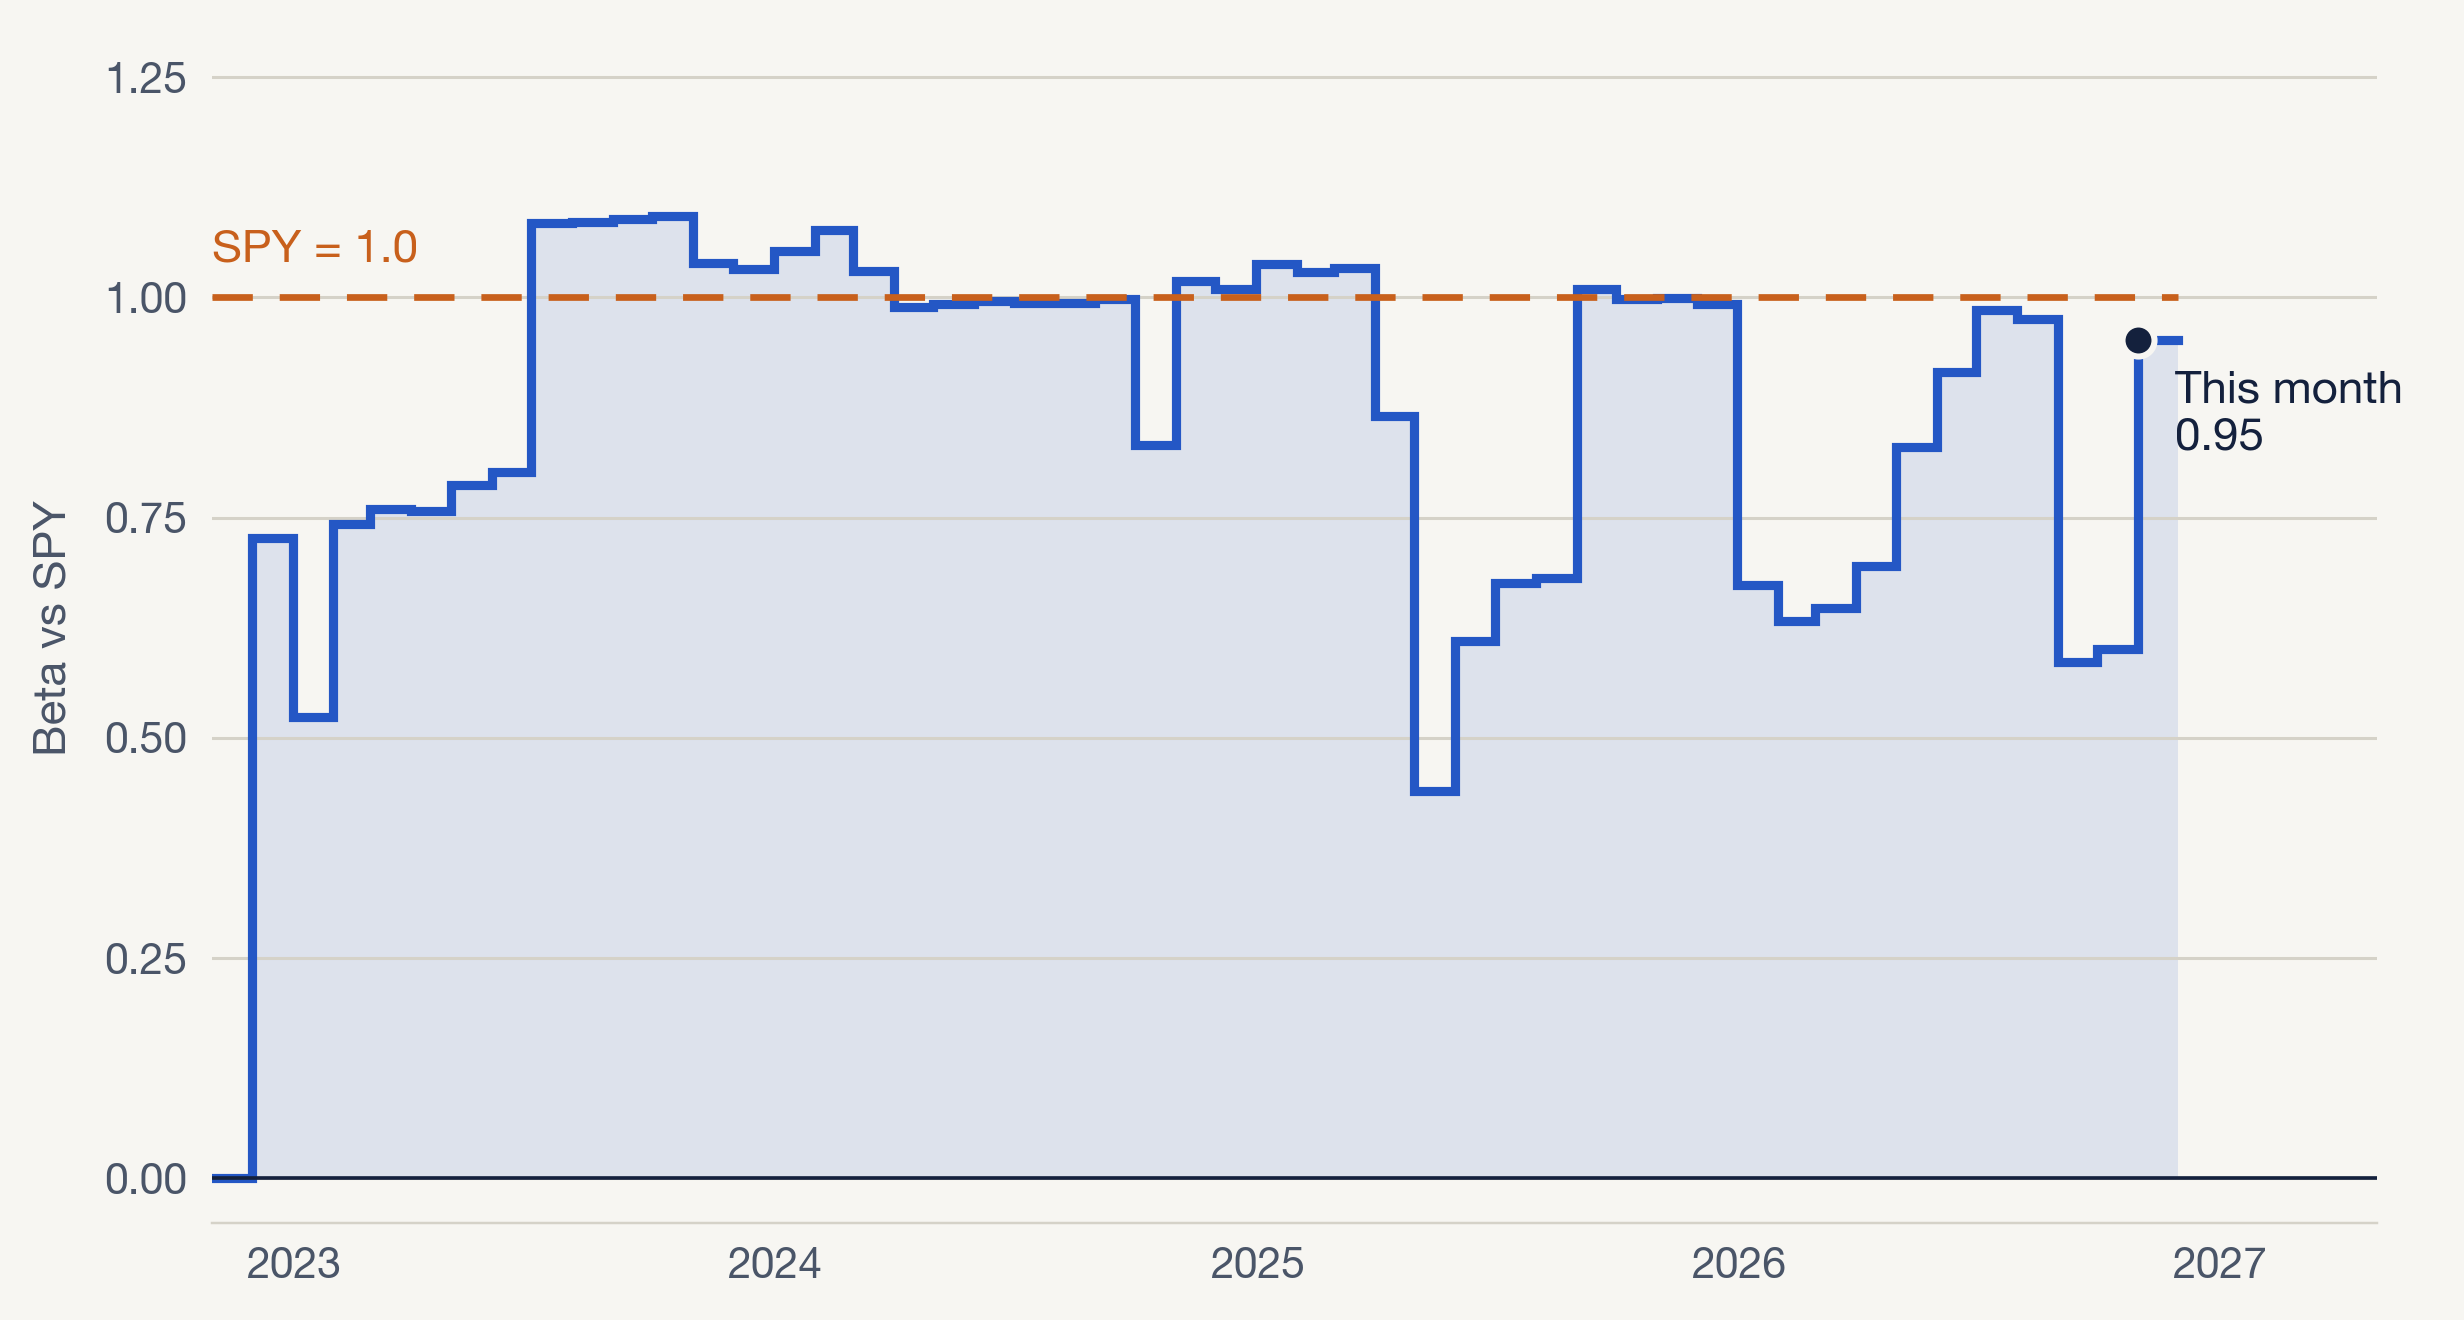
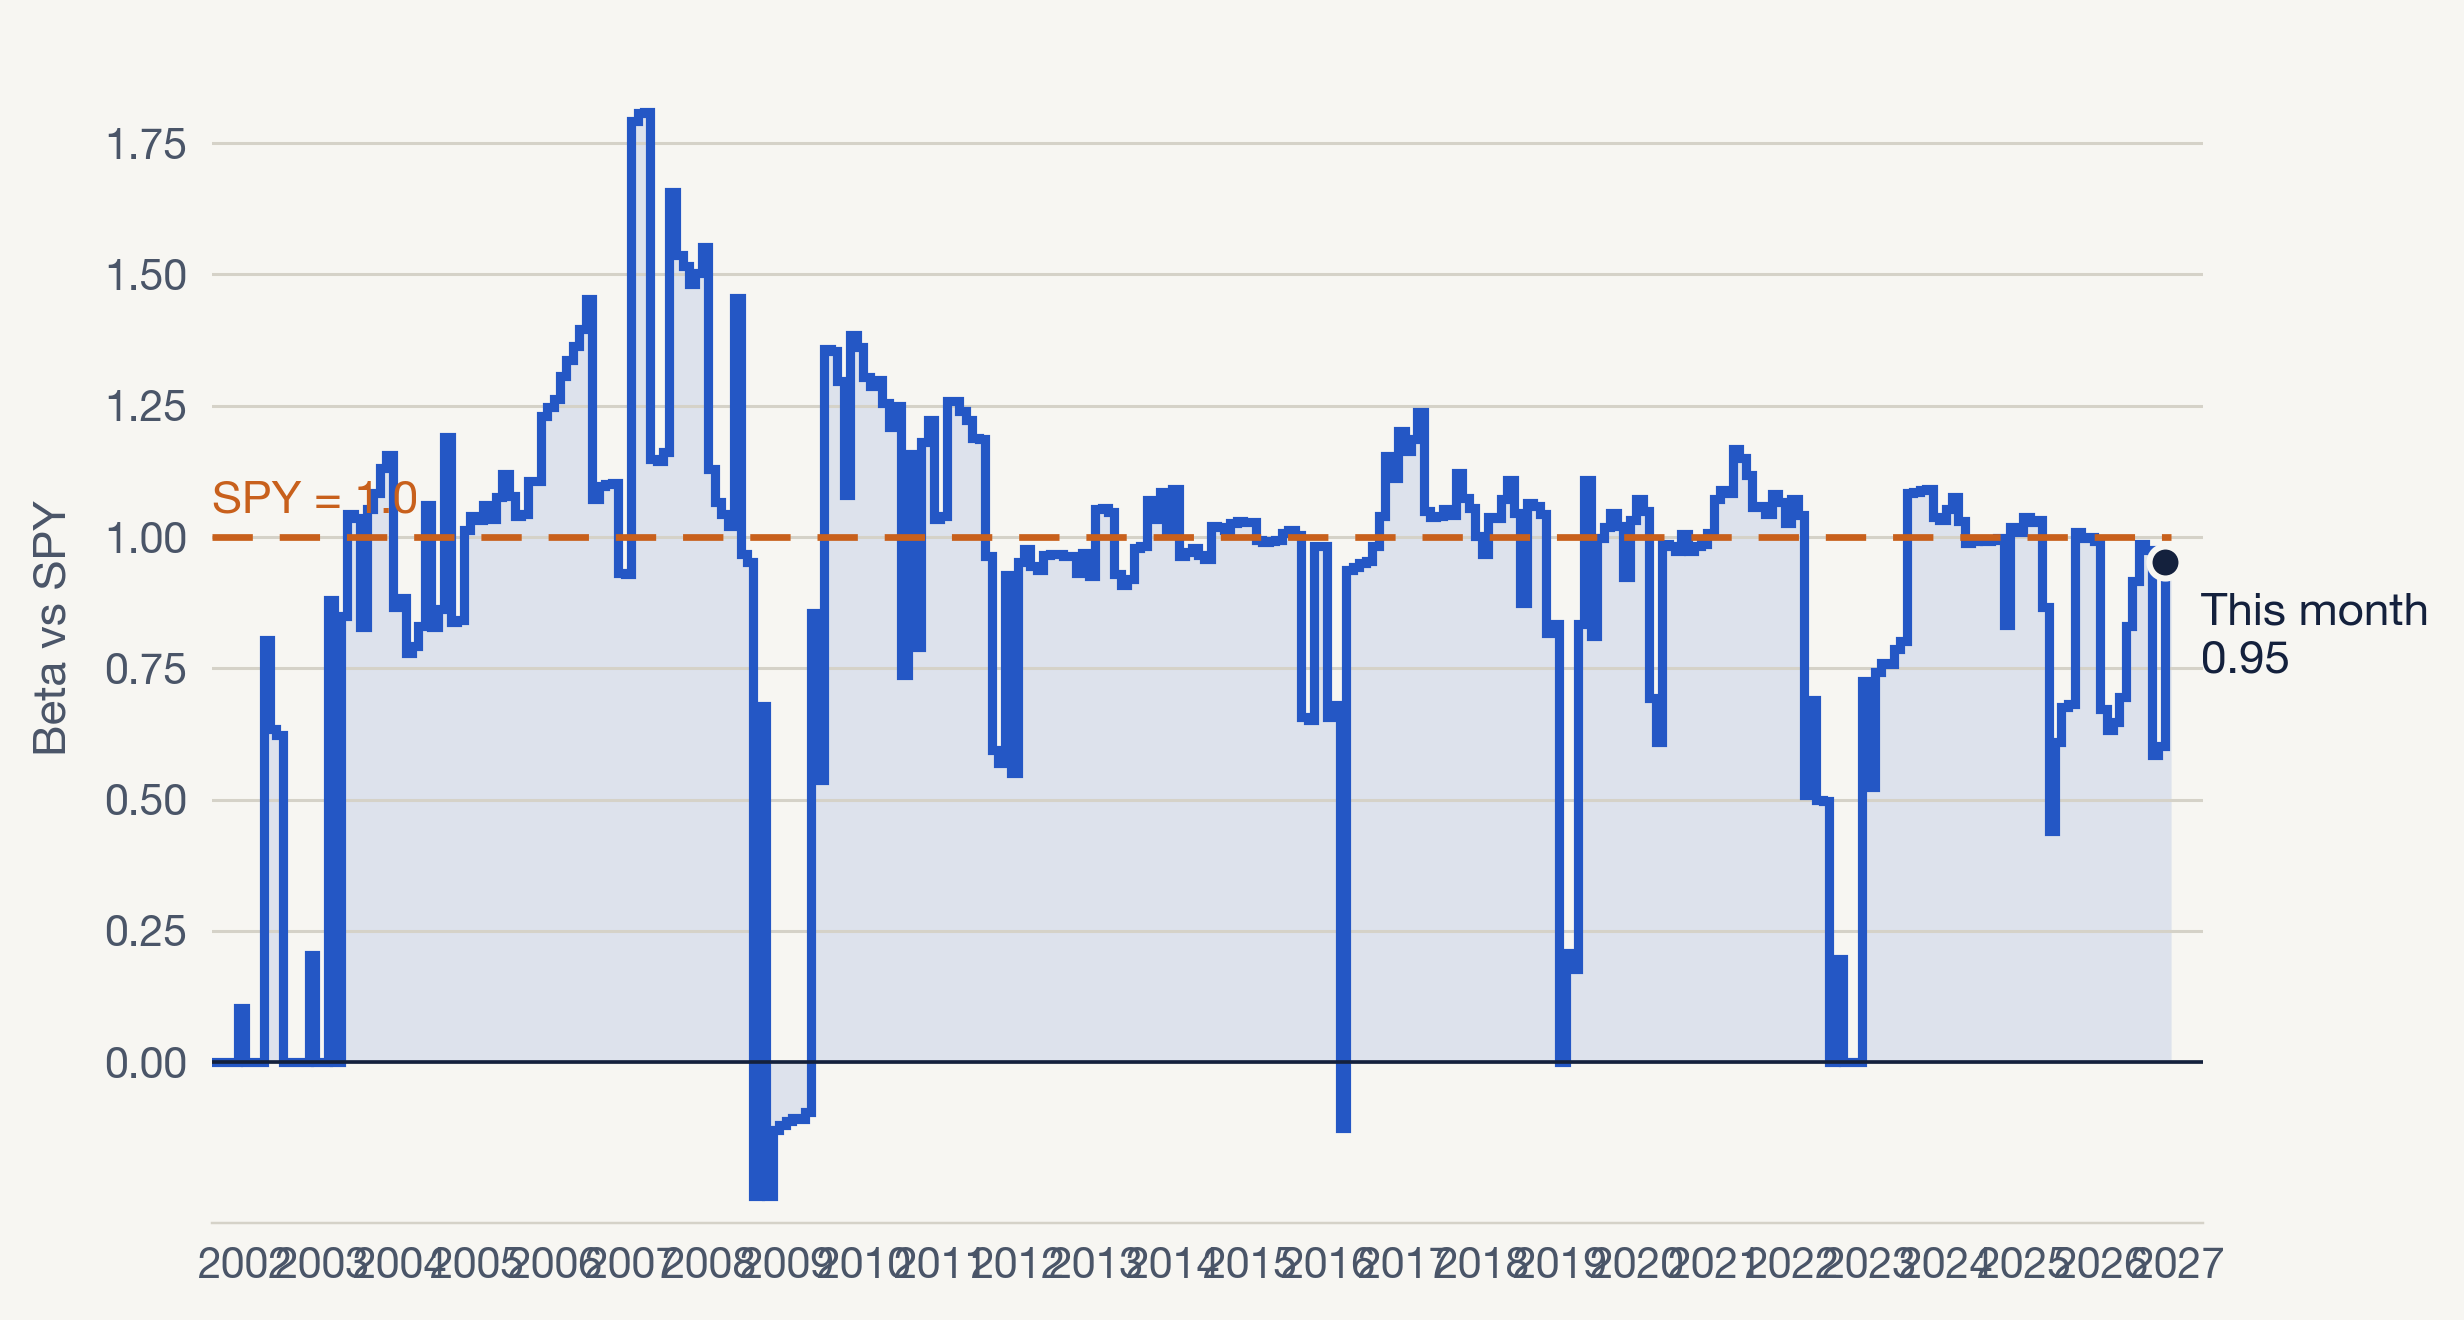
Add rolling realized beta chart; extend beta_by_month to 26 years
rolling_beta_chart.py plots the 36-month rolling realized beta of the book vs
SPY over the full run (rolling_beta.png), with the full-run average (0.63)
and SPY drawdowns >15% shaded. beta_chart.py now covers 26 years.

diff --git a/strategy/rolling_beta_chart.py b/strategy/rolling_beta_chart.py
@@ -1,0 +1,112 @@
+"""
+rolling_beta_chart.py  --  rolling realized beta of the book vs SPY, full run.
+
+Realized beta = slope of the book's monthly returns (build_strategy, the same
+series backtest.py uses) on SPY's, over a trailing WINDOW-month window. The
+full-run beta is drawn as a reference line; SPY drawdowns deeper than
+DD_SHADE are shaded so the drop in beta around sell-offs is visible.
+Writes rolling_beta.png next to this file.
+"""
+import os
+import warnings
+import numpy as np
+import pandas as pd, matplotlib
+matplotlib.use("Agg")
+import matplotlib.pyplot as plt
+import matplotlib.dates as mdates
+import strategy_lib as S
+
+warnings.filterwarnings("ignore")
+WINDOW = 36          # months in each rolling regression
+DD_SHADE = 0.15      # shade SPY drawdowns deeper than this
+HERE = os.path.dirname(os.path.abspath(__file__))
+
+# ---- deck look (same as beta_chart.py) -------------------------------------
+INK, BODY, BLUE, ORANGE, PAPER, GRID = "#14213D", "#4A5568", "#2457C5", "#C8601C", "#F7F6F2", "#D5D2C8"
+SHADE = "#8A94A6"
+plt.rcParams.update({
+    "font.family": "sans-serif",
+    "font.sans-serif": ["Inter", "Helvetica Neue", "Arial", "DejaVu Sans"],
+    "axes.edgecolor": GRID, "axes.labelcolor": BODY,
+    "xtick.color": BODY, "ytick.color": BODY,
+})
+
+# ---- realized beta ---------------------------------------------------------
+DI = S.get_data()
+r, _ = S.build_strategy(DI=DI)
+spy = DI["monthly"]["SPY"]
+df = pd.concat([r.rename("r"), spy.reindex(r.index).rename("b")], axis=1).dropna()
+# drop the month still in progress (its "return" is only a few days long)
+df = df[df.index <= DI["close"].index.max()]
+
+
+def slope(x):
+    return np.polyfit(x["b"], x["r"], 1)[0]
+
+
+full = slope(df)
+roll = pd.Series({df.index[i]: slope(df.iloc[i - WINDOW + 1:i + 1])
+                  for i in range(WINDOW - 1, len(df))})
+
+# SPY drawdown episodes (monthly closes)
+px = (1 + df["b"]).cumprod()
+dd = px / px.cummax() - 1
+episodes, start = [], None
+for t, v in dd.items():
+    if v < 0 and start is None:
+        start = t
+    if v >= 0 and start is not None:
+        if dd.loc[start:t].min() <= -DD_SHADE:
+            episodes.append((start, t))
+        start = None
+if start is not None and dd.loc[start:].min() <= -DD_SHADE:
+    episodes.append((start, dd.index[-1]))
+
+print(f"full run {df.index[0]:%Y-%m}..{df.index[-1]:%Y-%m}: realized beta {full:.2f}")
+print(f"rolling {WINDOW}m -> now {roll.iloc[-1]:.2f} | min {roll.min():.2f} "
+      f"({roll.idxmin():%Y-%m}) | max {roll.max():.2f} ({roll.idxmax():%Y-%m})")
+print("shaded SPY drawdowns:", ", ".join(f"{a:%Y-%m}..{b:%Y-%m}" for a, b in episodes))
+
+# ---- chart -----------------------------------------------------------------
+fig, ax = plt.subplots(figsize=(11.2, 6.0), dpi=220)
+fig.set_facecolor(PAPER); ax.set_facecolor(PAPER)
+
+for a, b in episodes:
+    ax.axvspan(a, b, color=SHADE, alpha=0.16, lw=0)
+ax.text(0.01, 0.98, f"Shaded: SPY down more than {DD_SHADE:.0%} from its peak",
+        color=BODY, fontsize=12, va="top", ha="left", transform=ax.transAxes)
+
+# reference lines, labelled in the empty margin right of the data
+ax.hlines(1.0, roll.index[0], roll.index[-1], color=BODY, ls=(0, (2, 3)), lw=1.6)
+ax.annotate("SPY = 1.0", (roll.index[-1], 1.0), xytext=(12, 0), textcoords="offset points",
+            va="center", color=BODY, fontsize=13)
+ax.hlines(full, roll.index[0], roll.index[-1], color=ORANGE, ls=(0, (6, 4)), lw=2.2)
+ax.annotate(f"Full-run\naverage {full:.2f}", (roll.index[-1], full), xytext=(12, 0),
+            textcoords="offset points", va="center", color=ORANGE, fontsize=15,
+            fontweight="bold")
+
+ax.plot(roll.index, roll.values, color=BLUE, lw=3)
+ax.scatter(roll.index[-1], roll.iloc[-1], s=110, color=INK, zorder=5,
+           edgecolor=PAPER, linewidth=2)
+ax.annotate(f"Last 3 yrs\n{roll.iloc[-1]:.2f}", (roll.index[-1], roll.iloc[-1]),
+            xytext=(12, 0), textcoords="offset points", va="center",
+            fontsize=15, fontweight="bold", color=INK)
+
+lo = min(0, np.floor(roll.min() * 4) / 4)
+top = max(1.25, np.ceil((roll.max() + 0.05) * 4) / 4)
+ax.set_ylim(lo, top)
+ax.set_xlim(roll.index[0], roll.index[-1] + pd.DateOffset(months=42))   # room for label
+ax.set_yticks(np.arange(lo, top + 1e-9, 0.25))
+ax.yaxis.set_major_formatter(lambda v, _: f"{v:.2f}")
+ax.xaxis.set_major_locator(mdates.YearLocator(4))
+ax.xaxis.set_major_formatter(mdates.DateFormatter("%Y"))
+ax.tick_params(labelsize=14, length=0, pad=8)
+ax.grid(axis="y", color=GRID, lw=1)
+for s in ("top", "right", "left"):
+    ax.spines[s].set_visible(False)
+ax.set_ylabel(f"Realized beta vs SPY ({WINDOW}-month rolling)", fontsize=15, labelpad=10)
+
+plt.tight_layout()
+out = os.path.join(HERE, "rolling_beta.png")
+plt.savefig(out, facecolor=PAPER)
+print(f"saved {out}")

diff --git a/strategy/beta_chart.py b/strategy/beta_chart.py
@@ -12,7 +12,7 @@ import matplotlib.pyplot as plt
 import matplotlib.dates as mdates
 import strategy_lib as S
 
-YEARS = 4
+YEARS = 26
 HERE = os.path.dirname(os.path.abspath(__file__))
 
 # ---- deck look ------------------------------------------------------------

diff --git a/strategy/README.md b/strategy/README.md
@@ -372,6 +372,7 @@ doc for anyone running this month to month.
 | `strategy/strategy_lib.py` | The locked model: data loading, both engines, the game-theory sector selector, the throttle, and the backtest simulator. Nothing else in the repo re-implements this logic, everything imports it. |
 | `strategy/backtest.py` | Runs the full 2001-to-today backtest; produces the numbers and chart in Section 6. |
 | `strategy/beta_chart.py` | Plots the beta vs SPY of each month's holdings over the last 4 years (`beta_by_month.png`). |
+| `strategy/rolling_beta_chart.py` | Plots the 36-month rolling realized beta vs SPY over the full run, with the full-run average and SPY sell-offs marked (`rolling_beta.png`). |
 | `strategy/signals.py` | The monthly rebalance sheet, prints target weights, no IBKR connection. |
 | `strategy/data/` | Cached price (`prices.parquet`) and T-bill (`tbill_dgs3mo.parquet`) data. |
 | `strategy/live/ib_config.py` | IBKR connection settings (host/port/client id). |
